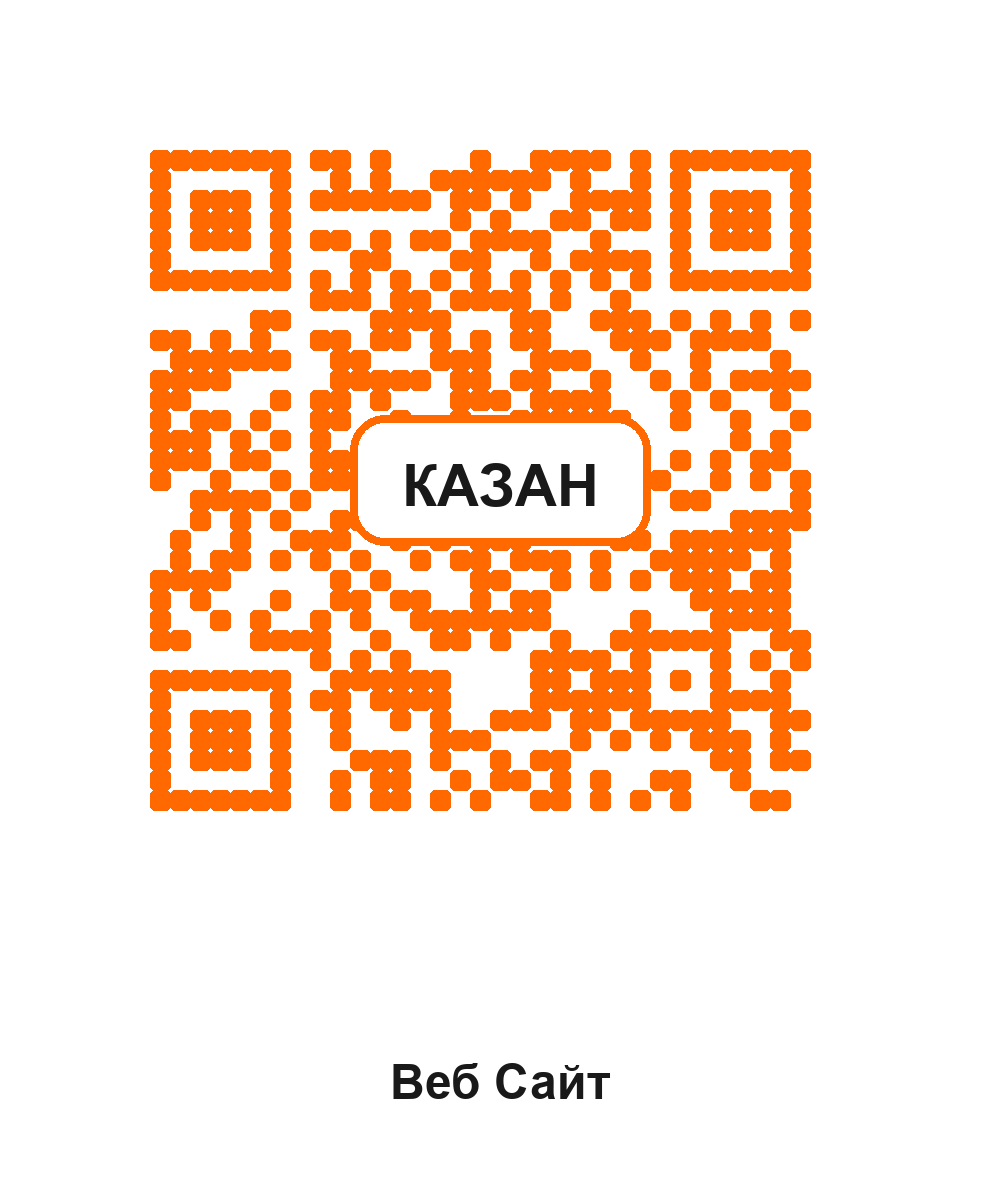
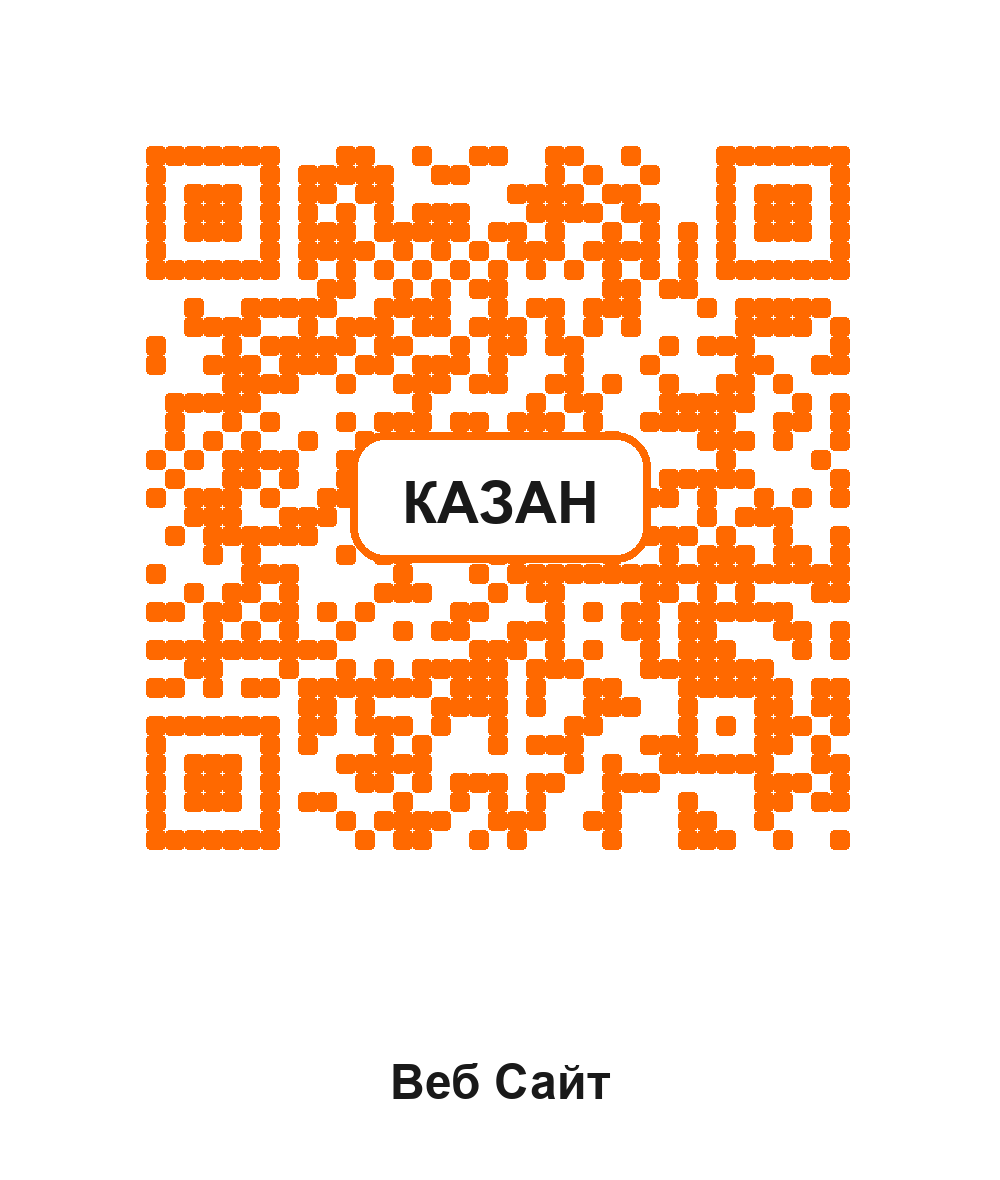
Add files via upload

Changed region(s): [[0.124, 0.122, 0.868, 0.7322]]

diff --git a/menu.html b/menu.html
@@ -20,12 +20,11 @@
         <a href="index.html">Главная</a>
         <a href="index.html#about">О нас</a>
         <a href="index.html#gallery">Галерея</a>
-        <a href="index.html#video">Видео</a>
         <a href="index.html#contacts">Контакты</a>
         <a href="index.html#rating">Отзывы</a>
       </nav>
 
-      <a href="#booking" class="btn btn-fill">Забронировать</a>
+      <a href="index.html#booking" class="btn btn-fill">Забронировать</a>
 
       <button class="burger" id="burger" aria-label="Открыть меню" aria-expanded="false">
         <span></span>
@@ -38,11 +37,10 @@
       <a href="index.html#top" data-close>Главная</a>
       <a href="index.html#about" data-close>О нас</a>
       <a href="index.html#gallery" data-close>Галерея</a>
-      <a href="index.html#video" data-close>Видео</a>
       <a href="index.html#contacts" data-close>Контакты</a>
       <a href="index.html#rating" data-close>Отзывы</a>
     </nav>
-    <a href="#booking" class="btn btn-fill" data-close>Забронировать столик</a>
+    <a href="index.html#booking" class="btn btn-fill" data-close>Забронировать столик</a>
   </div>
 
   <section class="menu-hero">
@@ -579,7 +577,6 @@
             <li><a href="index.html#top">Главная</a></li>
             <li><a href="index.html#about">О нас</a></li>
             <li><a href="index.html#gallery">Галерея</a></li>
-            <li><a href="index.html#video">Видео</a></li>
             <li><a href="index.html#contacts">Контакты</a></li>
             <li><a href="index.html#rating">Отзывы</a></li>
           </ul>

diff --git a/index.html b/index.html
@@ -46,7 +46,6 @@
         <a href="#about">О нас</a>
         <a href="menu.html">Меню</a>
         <a href="#gallery">Галерея</a>
-        <a href="#video">Видео</a>
         <a href="#contacts">Контакты</a>
         <a href="#rating">Отзывы</a>
       </nav>
@@ -65,7 +64,6 @@
       <a href="#about" data-close>О нас</a>
       <a href="menu.html" data-close>Меню</a>
       <a href="#gallery" data-close>Галерея</a>
-      <a href="#video" data-close>Видео</a>
       <a href="#contacts" data-close>Контакты</a>
       <a href="#rating" data-close>Отзывы</a>
     </nav>
@@ -523,7 +521,6 @@
             <li><a href="#about">О нас</a></li>
             <li><a href="menu.html#menu">Меню</a></li>
             <li><a href="#gallery">Галерея</a></li>
-            <li><a href="#video">Видео</a></li>
             <li><a href="#contacts">Контакты</a></li>
             <li><a href="#rating">Отзывы</a></li>
           </ul>

diff --git a/qr2.py b/qr2.py
@@ -1,11 +1,7 @@
 import qrcode
 from PIL import Image, ImageDraw, ImageFont
 
-# =========================
-# НАСТРОЙКИ
-# =========================
-
-URL = "https://kazan-stavropol.ru/menu"   # <-- сюда вставь свой сайт
+URL = "https://kazan-stavropol.github.io/-/menu.html"
 
 OUTPUT = "qr_kazan_menu.png"
 

diff --git a/qr1.py b/qr1.py
@@ -1,11 +1,7 @@
 import qrcode
 from PIL import Image, ImageDraw, ImageFont
 
-# =========================
-# НАСТРОЙКИ
-# =========================
-
-URL = "https://kazan-stavropol.ru/"   # <-- сюда вставь свой сайт
+URL = "https://kazan-stavropol.github.io/-/"
 
 OUTPUT = "qr_kazan.png"
 
